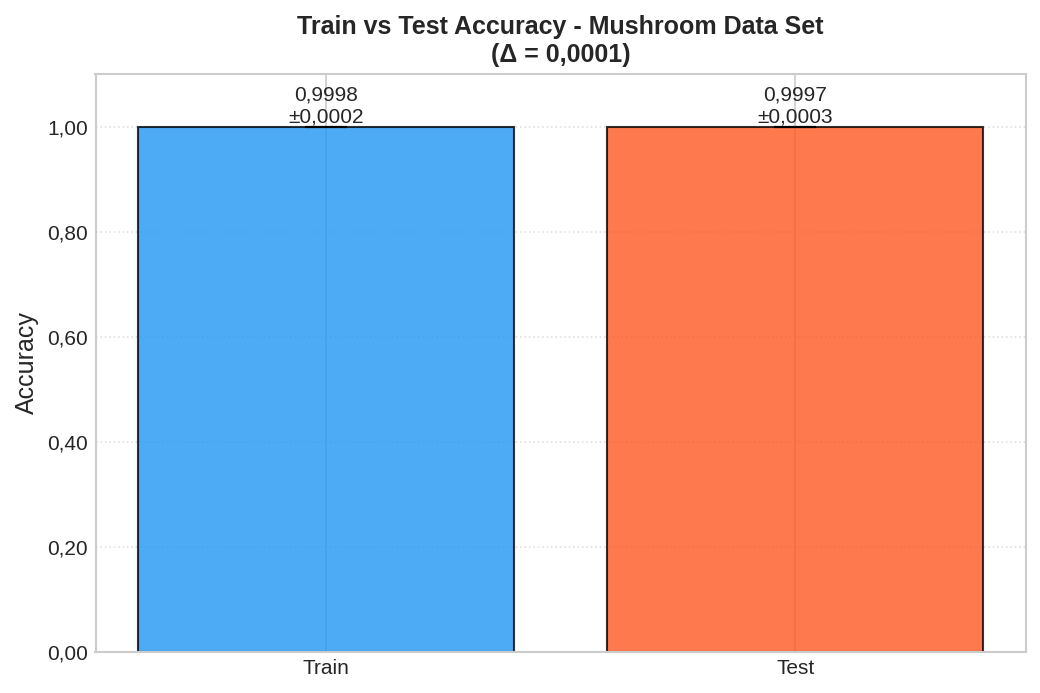
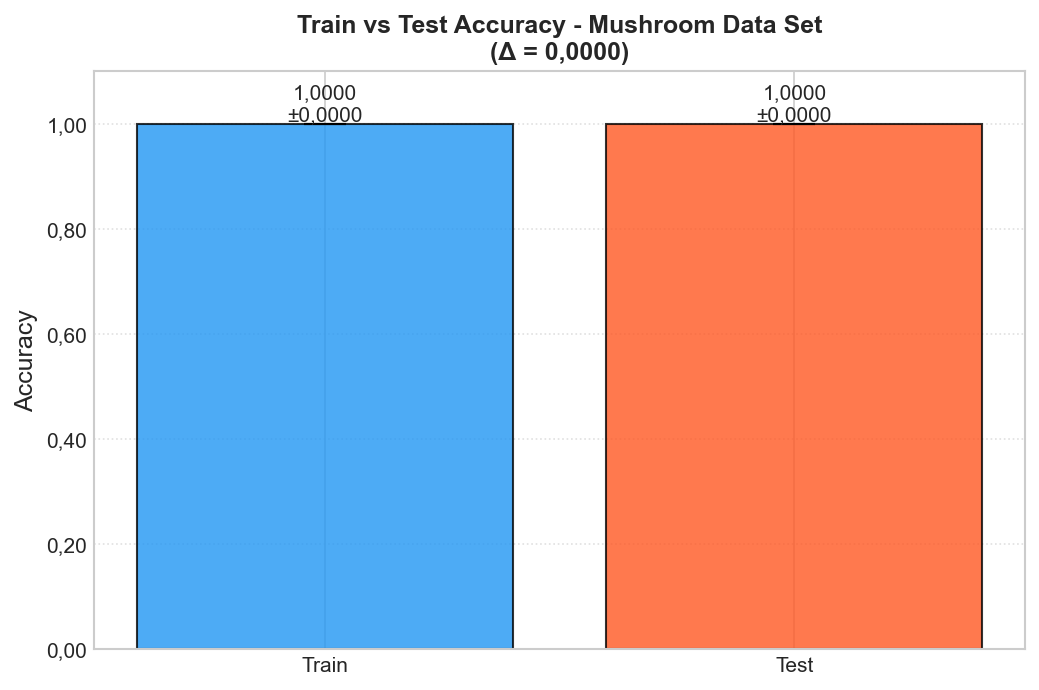
new experiments for optimal params

diff --git a/src/core/experiments/PlotGenerator.py b/src/core/experiments/PlotGenerator.py
@@ -266,7 +266,7 @@ class PlotGenerator:
 
         ax.set_xlabel("Dataset", fontsize=12)
         ax.set_ylabel("Accuracy", fontsize=12)
-        ax.set_title("Overfitting Analysis: Train vs Test Accuracy\n(T=20, p_svm=0.5, C=1.0)",
+        ax.set_title("Overfitting Analysis: Train vs Test Accuracy\n(T=50, p_svm=0.5, C=10.0)",
                      fontsize=14, fontweight='bold')
         ax.set_xticks(x)
         ax.set_xticklabels(df["dataset"], rotation=15, ha='right')
